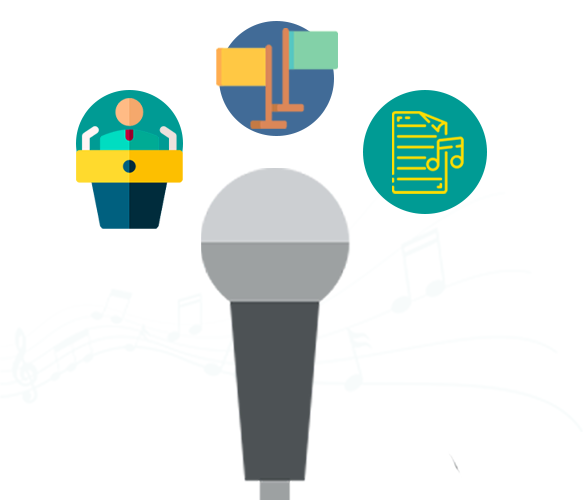
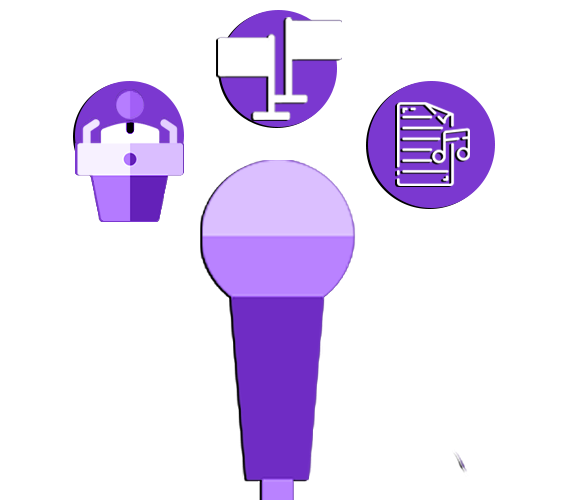
images changed

diff --git a/index.html b/index.html
@@ -266,7 +266,7 @@
             <h2 class="pri-color text-center">Strategizing Election Campaign</h2>
             <div class="solution-div">
                 <div class="left-solution-div">
-                    <img id="changingImage" src="images/solution1.webp" alt="Strategy Image">
+                    <img id="changingImage" src="images/solution1.png" alt="Strategy Image">
                 </div>
                 <div class="right-solution-div">
                     <div class="solution solution1 active" onmouseover="changeImageAndActivate(1)" id="solution1">
@@ -439,7 +439,7 @@
                 </div>
             </div>
             <div class="right-faq">
-                <img src="images/strategy.png" alt="" style="width: 100%;">
+                <img src="images/faq.png" alt="" style="width: 100%;">
             </div>
         </div>
         </div>
@@ -530,7 +530,7 @@
     <script>
 function changeImageAndActivate(solutionNumber) {
     // Change the image source based on the hovered solution
-    document.getElementById('changingImage').src = 'images/solution' + solutionNumber + '.webp';
+    document.getElementById('changingImage').src = 'images/solution' + solutionNumber + '.png';
 
     // Deactivate all solutions
     var solutions = document.querySelectorAll('.solution');

diff --git a/creative-content.html b/creative-content.html
@@ -292,7 +292,7 @@
                 </div>
             </div>
             <div class="right-faq">
-                <img src="images/strategy.png" alt="" style="width: 100%;">
+                <img src="images/faq.png" alt="" style="width: 100%;">
             </div>
         </div>
         </div>

diff --git a/misscall.html b/misscall.html
@@ -291,7 +291,7 @@
                 </div>
             </div>
             <div class="right-faq">
-                <img src="images/strategy.png" alt="" style="width: 100%;">
+                <img src="images/faq.png" alt="" style="width: 100%;">
             </div>
         </div>
         </div>

diff --git a/political-song.html b/political-song.html
@@ -292,7 +292,7 @@
                 </div>
             </div>
             <div class="right-faq">
-                <img src="images/strategy.png" alt="" style="width: 100%;">
+                <img src="images/faq.png" alt="" style="width: 100%;">
             </div>
         </div>
         </div>

diff --git a/portfolio-building.html b/portfolio-building.html
@@ -291,7 +291,7 @@
                 </div>
             </div>
             <div class="right-faq">
-                <img src="images/strategy.png" alt="" style="width: 100%;">
+                <img src="images/faq.png" alt="" style="width: 100%;">
             </div>
         </div>
         </div>

diff --git a/sms-service.html b/sms-service.html
@@ -289,7 +289,7 @@
                 </div>
             </div>
             <div class="right-faq">
-                <img src="images/strategy.png" alt="" style="width: 100%;">
+                <img src="images/faq.png" alt="" style="width: 100%;">
             </div>
         </div>
         </div>

diff --git a/social-promotion.html b/social-promotion.html
@@ -292,7 +292,7 @@
                 </div>
             </div>
             <div class="right-faq">
-                <img src="images/strategy.png" alt="" style="width: 100%;">
+                <img src="images/faq.png" alt="" style="width: 100%;">
             </div>
         </div>
         </div>

diff --git a/talkshow.html b/talkshow.html
@@ -292,7 +292,7 @@
                 </div>
             </div>
             <div class="right-faq">
-                <img src="images/strategy.png" alt="" style="width: 100%;">
+                <img src="images/faq.png" alt="" style="width: 100%;">
             </div>
         </div>
         </div>

diff --git a/video-and-photography.html b/video-and-photography.html
@@ -292,7 +292,7 @@
                 </div>
             </div>
             <div class="right-faq">
-                <img src="images/strategy.png" alt="" style="width: 100%;">
+                <img src="images/faq.png" alt="" style="width: 100%;">
             </div>
         </div>
         </div>

diff --git a/video-documentary.html b/video-documentary.html
@@ -292,7 +292,7 @@
                 </div>
             </div>
             <div class="right-faq">
-                <img src="images/strategy.png" alt="" style="width: 100%;">
+                <img src="images/faq.png" alt="" style="width: 100%;">
             </div>
         </div>
         </div>

diff --git a/voice-call.html b/voice-call.html
@@ -292,7 +292,7 @@
                 </div>
             </div>
             <div class="right-faq">
-                <img src="images/strategy.png" alt="" style="width: 100%;">
+                <img src="images/faq.png" alt="" style="width: 100%;">
             </div>
         </div>
         </div>

diff --git a/website-development.html b/website-development.html
@@ -292,7 +292,7 @@
                 </div>
             </div>
             <div class="right-faq">
-                <img src="images/strategy.png" alt="" style="width: 100%;">
+                <img src="images/faq.png" alt="" style="width: 100%;">
             </div>
         </div>
         </div>
